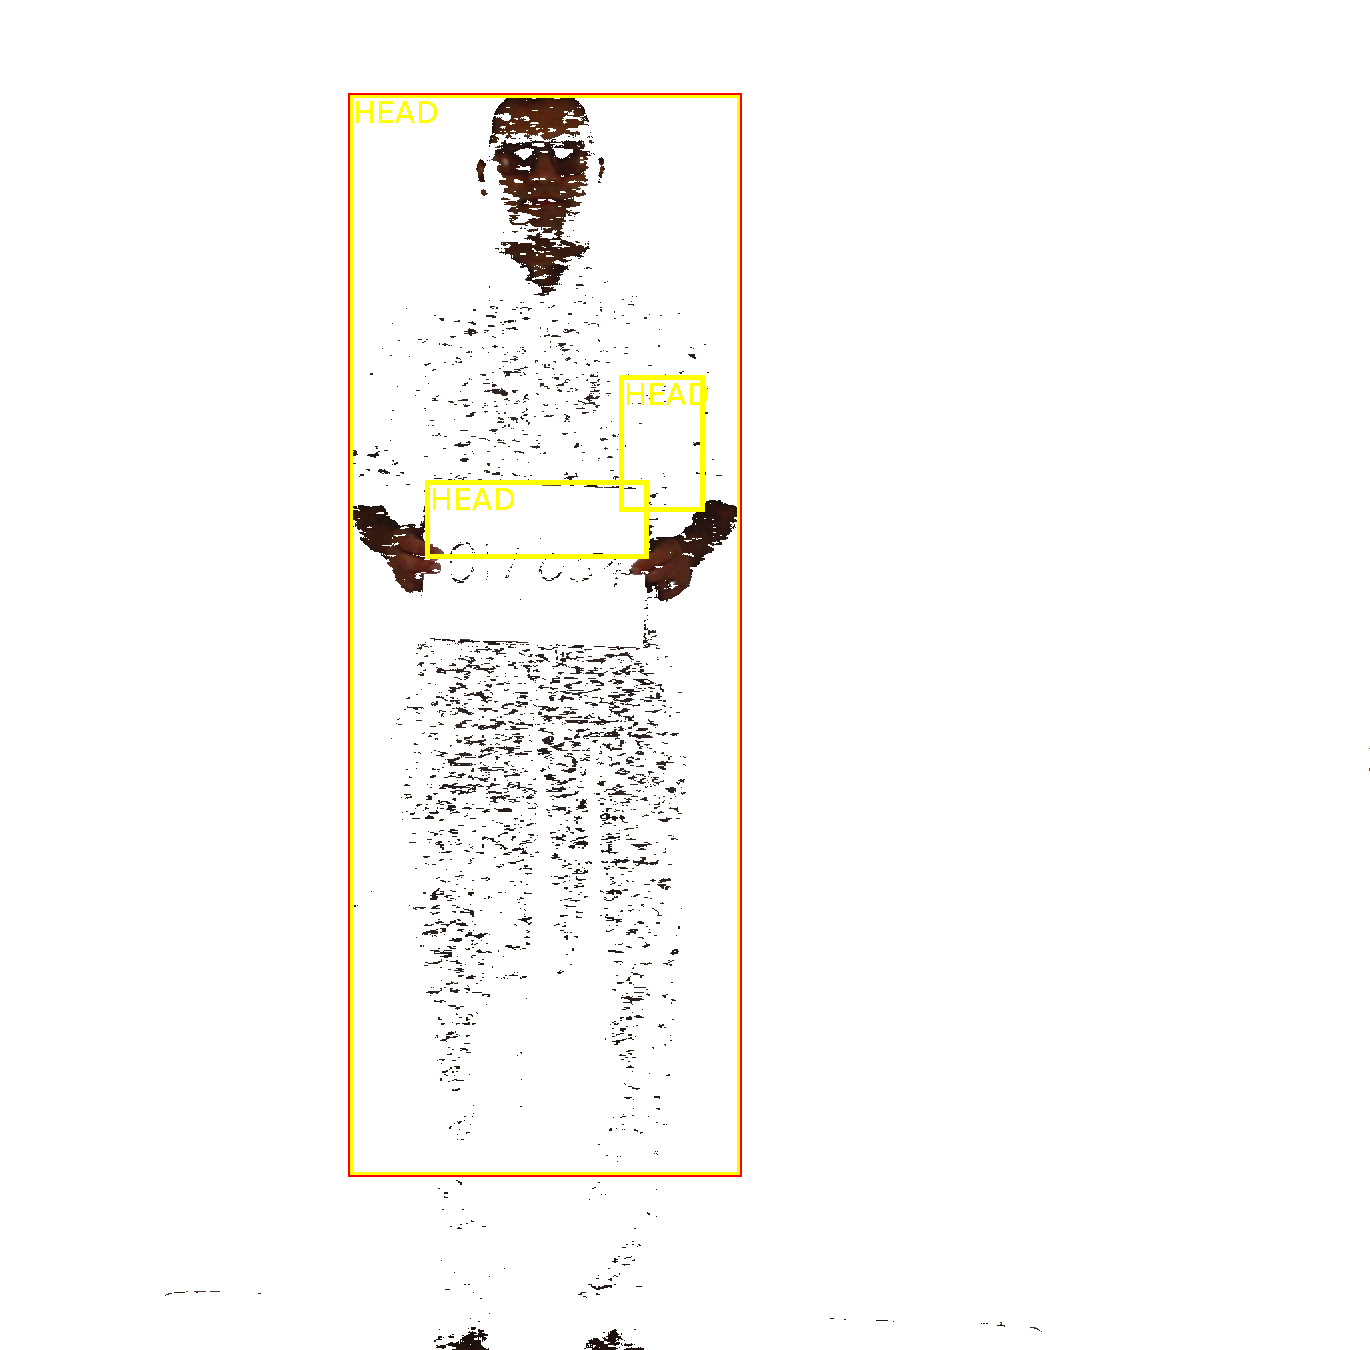
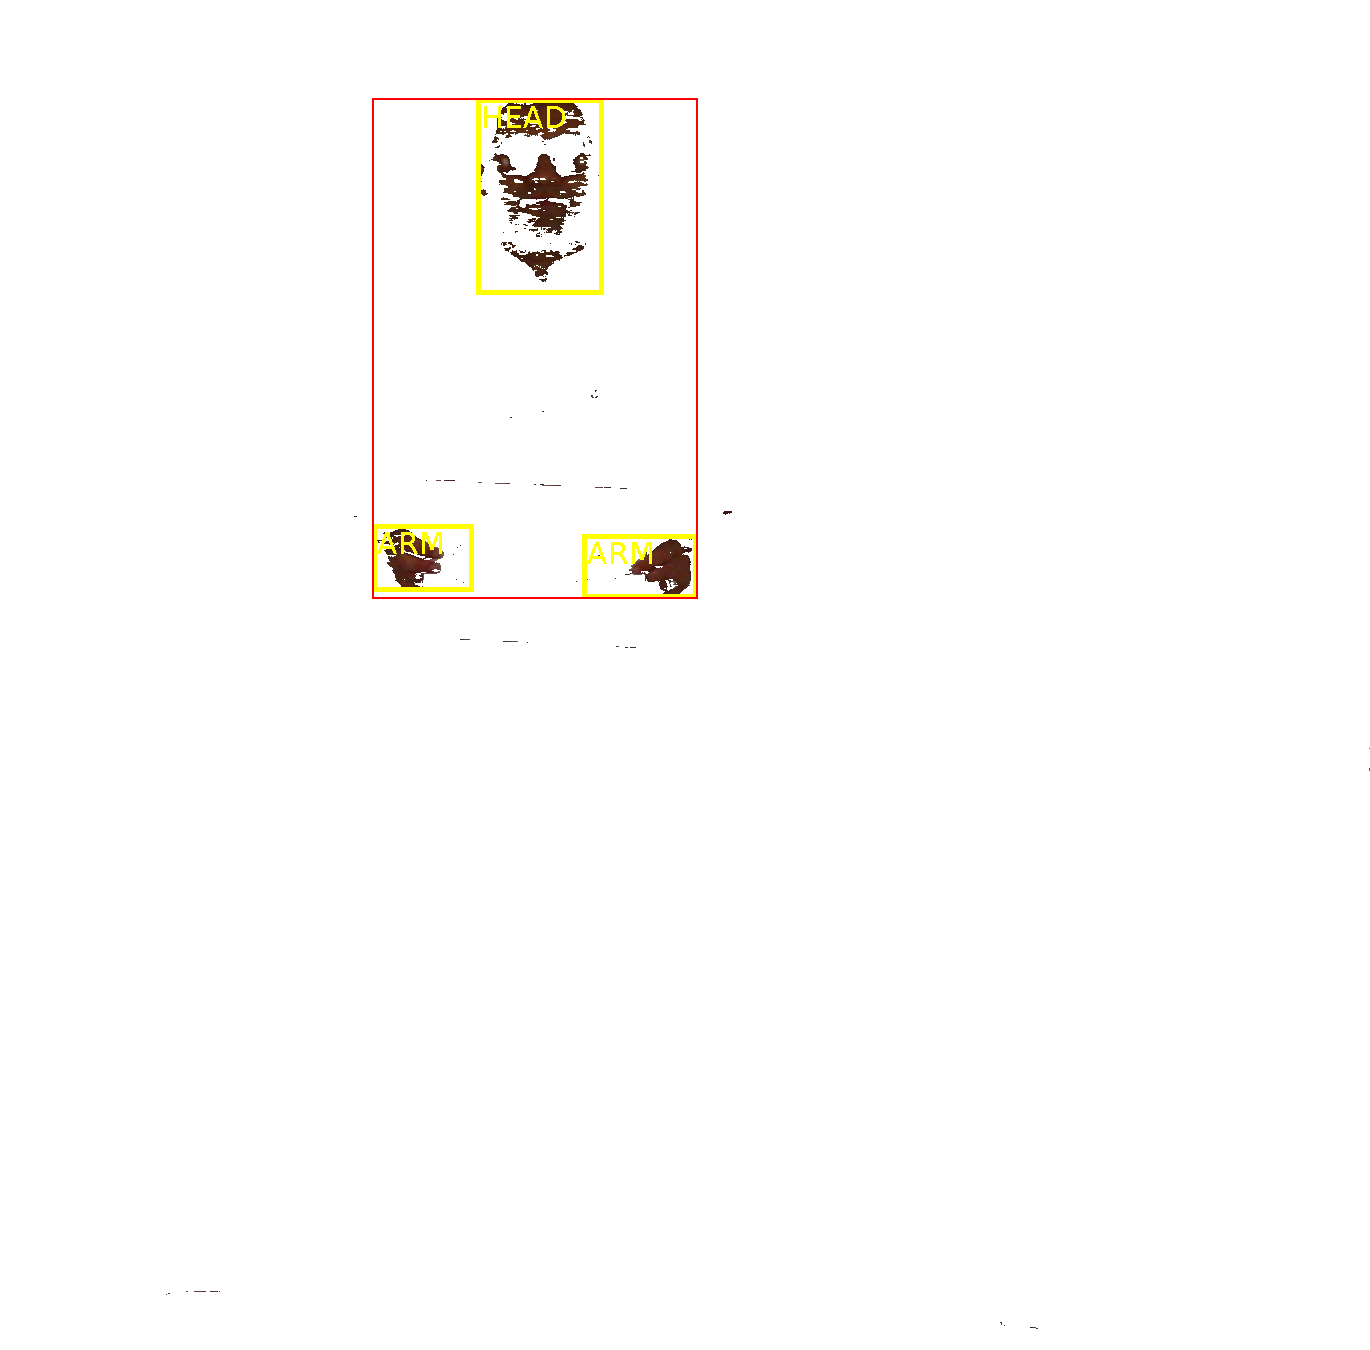
Report

diff --git a/src/SubjectGaitExtraction.java b/src/SubjectGaitExtraction.java
@@ -28,11 +28,9 @@ public class SubjectGaitExtraction {
 
         filename = new File(imgPath).getName();
         targetDirectory = "analysis/"+filename;
-
-        analyse();
     }
 
-    private void analyse(){
+    public void analyse(){
         //Create file directory
         new File("./"+targetDirectory).mkdirs();
 
@@ -71,8 +69,8 @@ public class SubjectGaitExtraction {
     public MarvinImage segmentation(MarvinImage skinImage){
 
         int maxNumSegmentsWanted = 5;
-        int minFeatureSize = 2500;    //Pixel squared
-        int maxFeatureSize = (skinImage.getHeight()*skinImage.getWidth())/4;
+        int minFeatureSize = 2200;    //Pixel squared
+        int maxFeatureSize = (skinImage.getHeight()*skinImage.getWidth())/25;
 
         MarvinImage image = skinImage.clone();
 
@@ -193,7 +191,7 @@ public class SubjectGaitExtraction {
         return croppedImage;
     }
 
-    private void extractSkintone(MarvinImage imageIn, MarvinImage imageOut){
+    public void extractSkintone(MarvinImage imageIn, MarvinImage imageOut){
         //https://arxiv.org/pdf/1708.02694.pdf
         for(int y=0; y<imageIn.getHeight(); y++){
             for(int x=0; x<imageIn.getWidth(); x++){
@@ -207,7 +205,7 @@ public class SubjectGaitExtraction {
 
                 if(hsv[0] >= 0 && hsv[0] <= 25 &&
                         hsv[1] >= 0.23 && hsv[1] <= 0.98
-                        && hsv[2] >= 0.1){
+                        && hsv[2] >= 0.22){
                     imageOut.setIntColor(x, y, color);
                 }
                 else{

diff --git a/src/RunGaitExtractions.java b/src/RunGaitExtractions.java
@@ -7,11 +7,10 @@ public class RunGaitExtractions {
 
     public RunGaitExtractions(String directory){
         this.directory = directory;
-
-        traverseDirectory();
     }
 
-    private void traverseDirectory(){
+
+    public void traverseDirectory(){
         File dir = new File(directory);
         File[] directoryListing = dir.listFiles();
 
@@ -27,14 +26,17 @@ public class RunGaitExtractions {
         }
     }
 
+
     private void performExtraction(String path){
         System.out.println(".......Processing image: "+path+" ........");
 
-        new SubjectGaitExtraction(path);
+        SubjectGaitExtraction sge = new SubjectGaitExtraction(path);
+        sge.analyse();
         System.out.println(".......              END               ........");
     }
 
     public static void main(String[] args){
-        new RunGaitExtractions("./training/");
+        RunGaitExtractions extractions = new RunGaitExtractions("./training/");
+        extractions.performExtraction("./training/016z050pf.jpg");
     }
 }

diff --git a/src/BrightnessTest.java b/src/BrightnessTest.java
@@ -1,0 +1,18 @@
+import marvin.image.MarvinImage;
+import marvin.io.MarvinImageIO;
+
+public class BrightnessTest {
+
+    public BrightnessTest(){
+        MarvinImage imageIn = MarvinImageIO.loadImage("./analysis/017z054pf.jpg/skin.png");
+        MarvinImage imageOut = new MarvinImage(imageIn.getWidth(),imageIn.getHeight());
+        SubjectGaitExtraction sge = new SubjectGaitExtraction("./analysis/017z054pf.jpg/skin.png");
+        sge.extractSkintone(imageIn,imageOut);
+        MarvinImageIO.saveImage(imageOut, "./analysis/017z054pf.jpg/skin.png");
+    }
+
+    public static void main(String[] args){
+        new BrightnessTest();
+    }
+}
+
